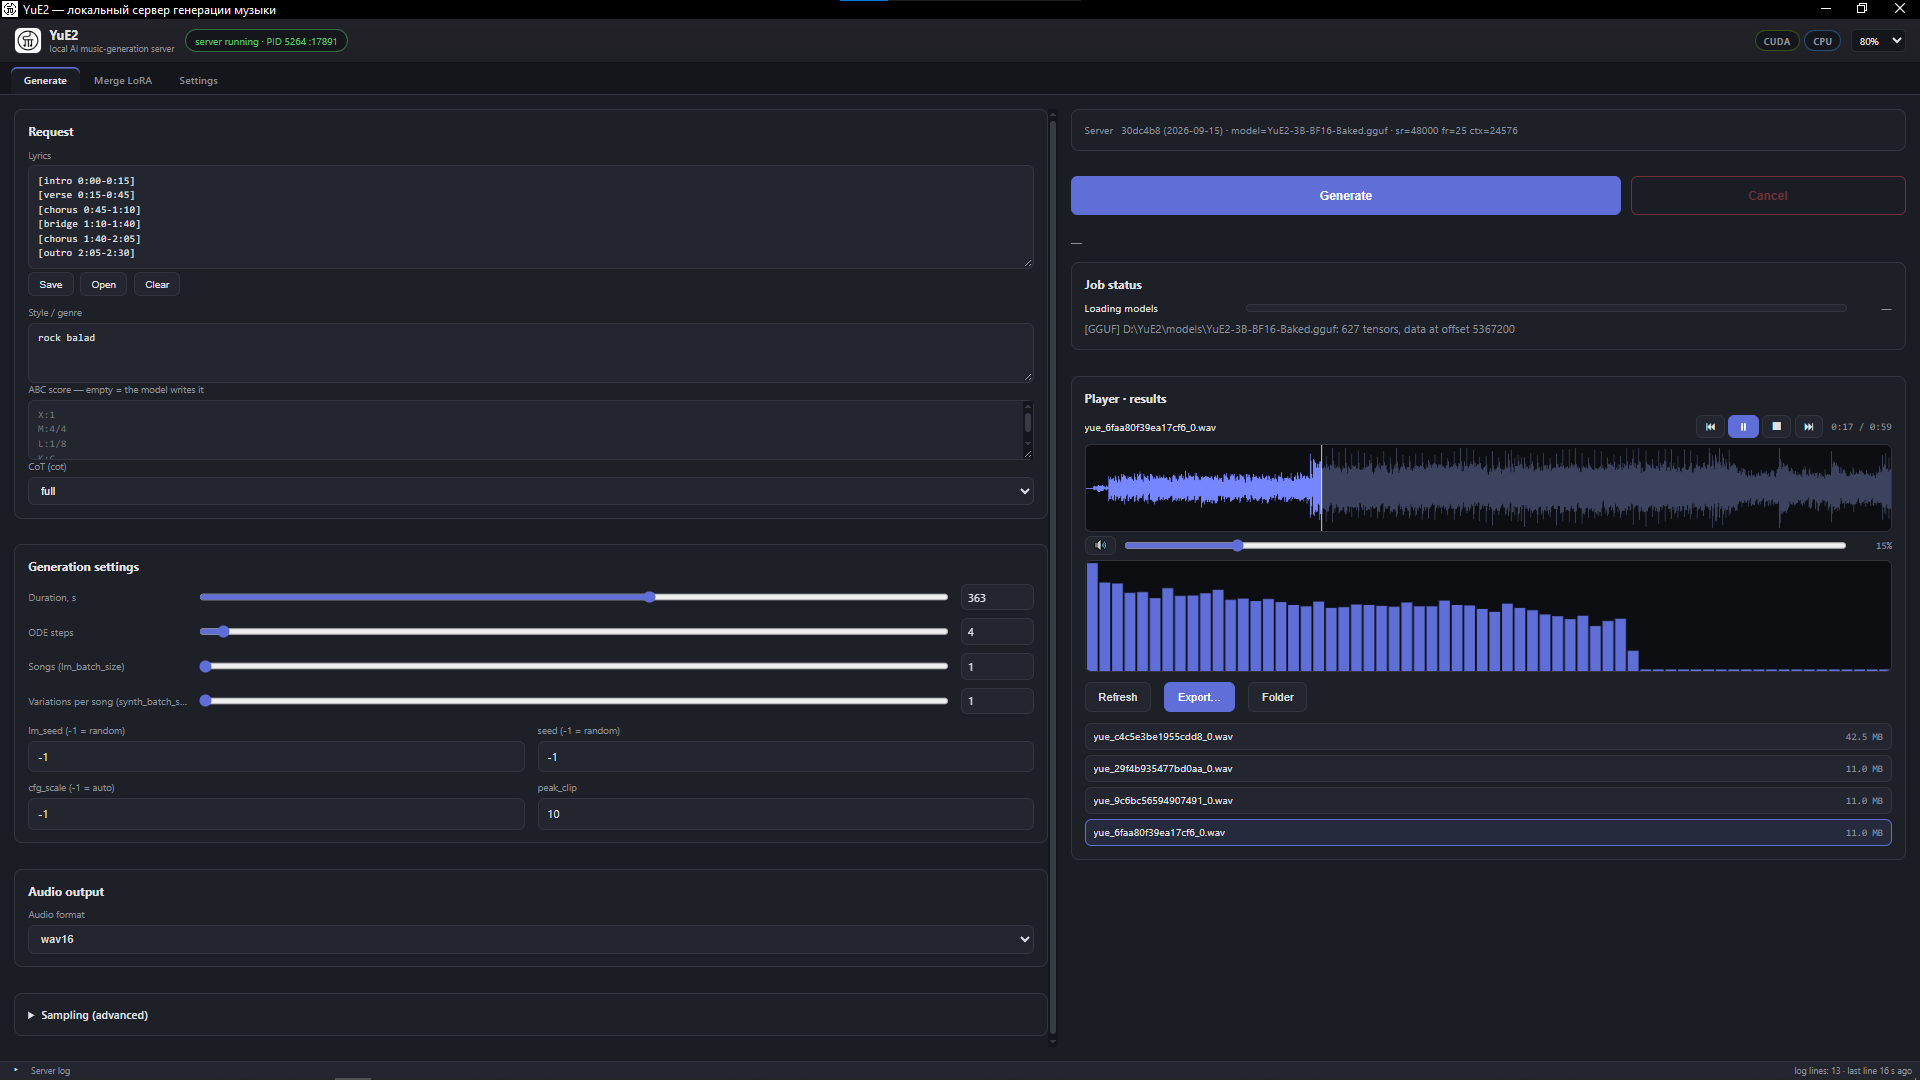
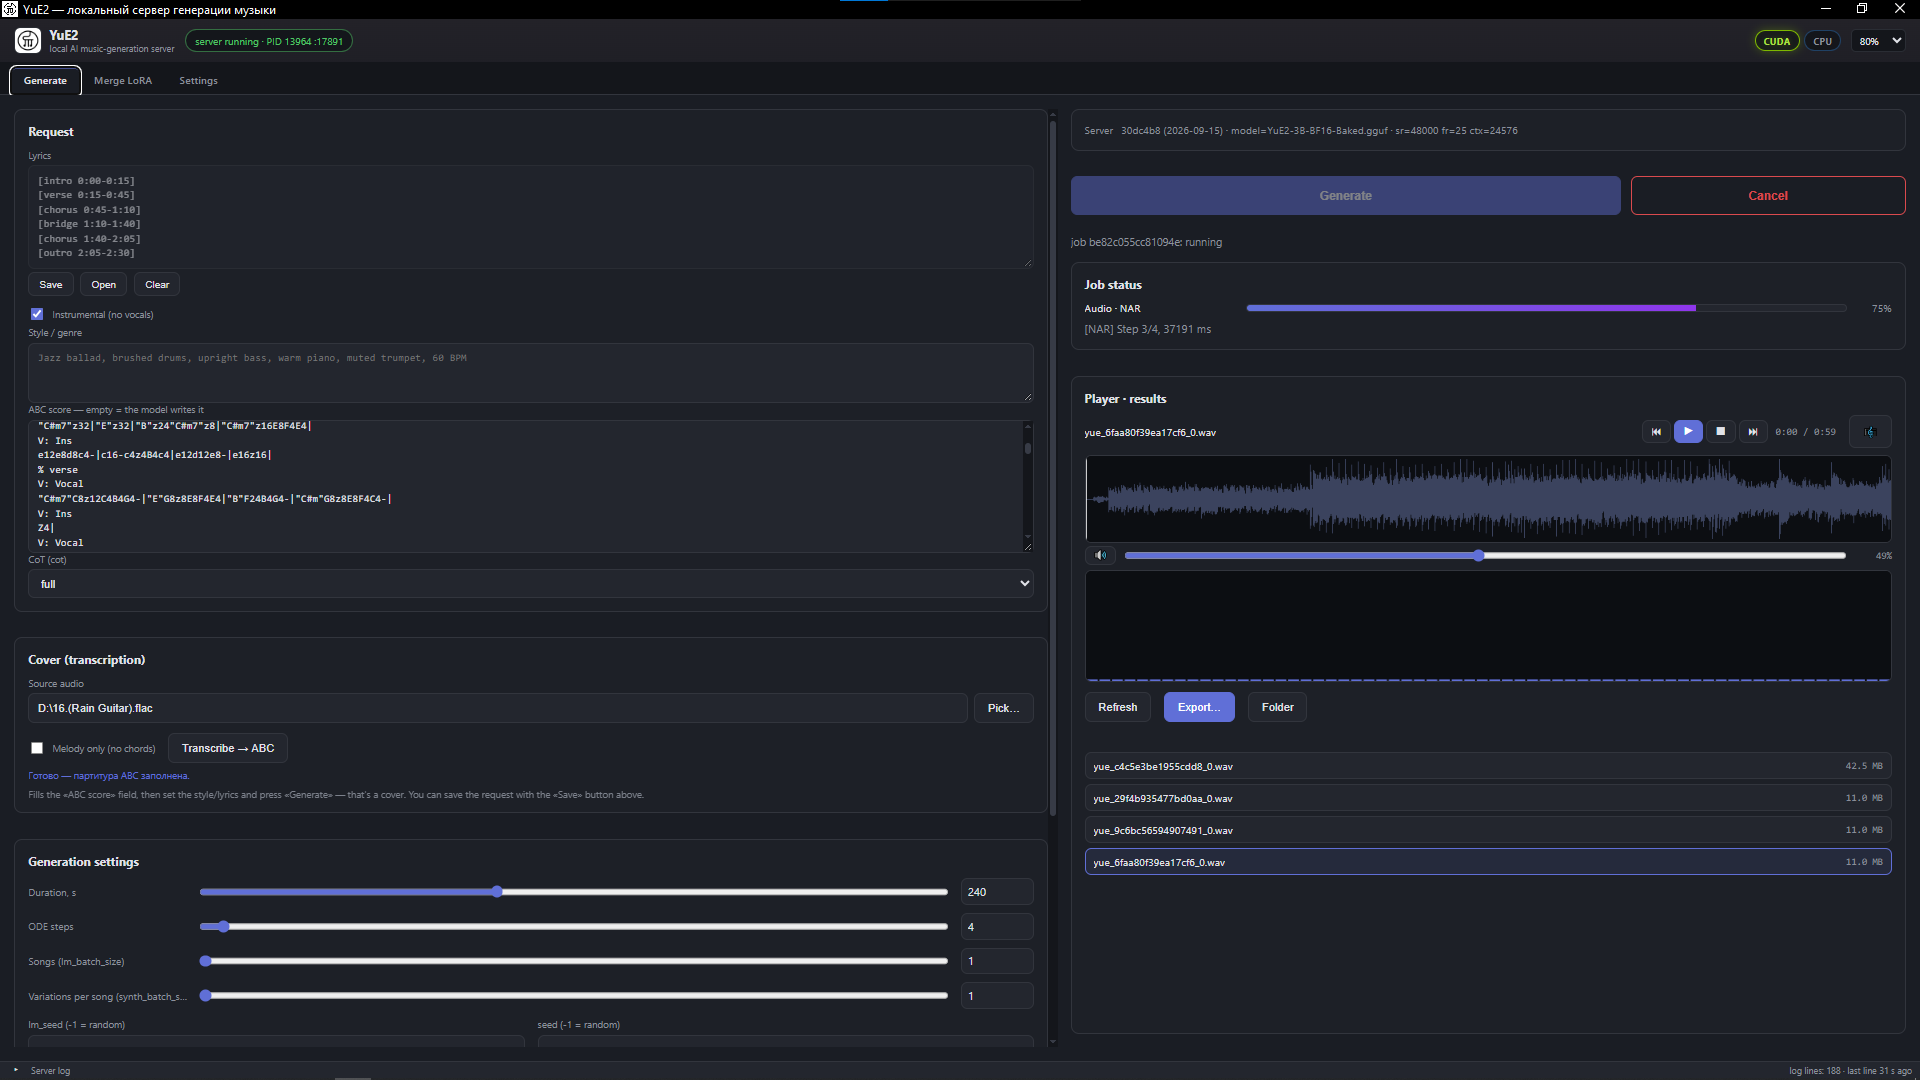
v1.0.0

diff --git a/README.md b/README.md
@@ -50,7 +50,9 @@ YuE2UI server supports GTX16xx/RTX20xx-50xx GPU cards and generation on CPU.
 - autosaving generated files into /outputs folder
 - advanced Log feature
 - server/models folder autodeection after moving server to another directory/folder/disk
-- no FFMPEG neeeded
+- FFMPEG-based audio conversation with advanced quality andd format settings
+- cover mode for cover music
+- ABC-score generation and view for generated tracks and for tracks to cover
 - 6GB VRAM + 16Gb RAM minimal requirements to generate with BF16 model (highest quality)
 
 
